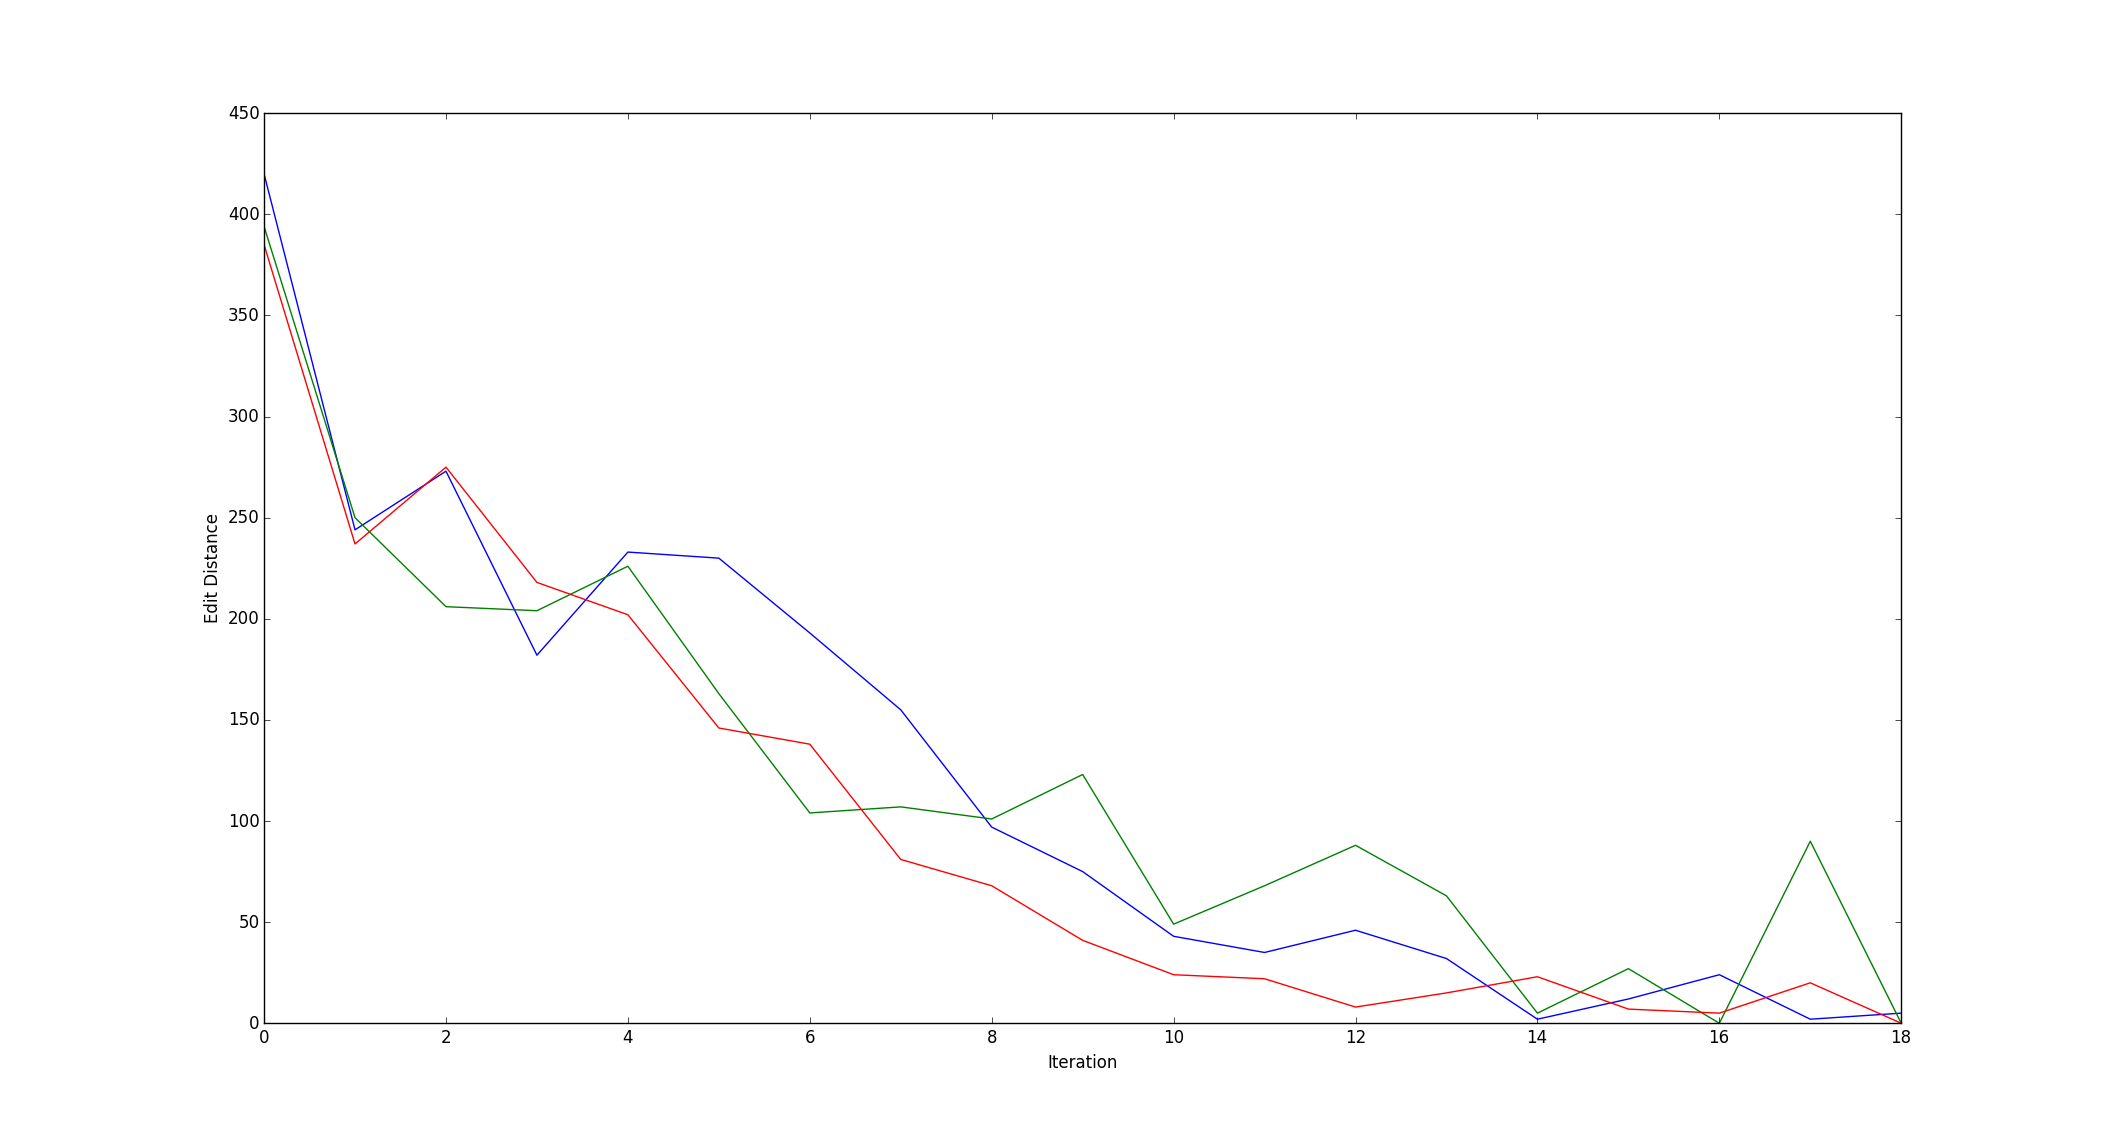
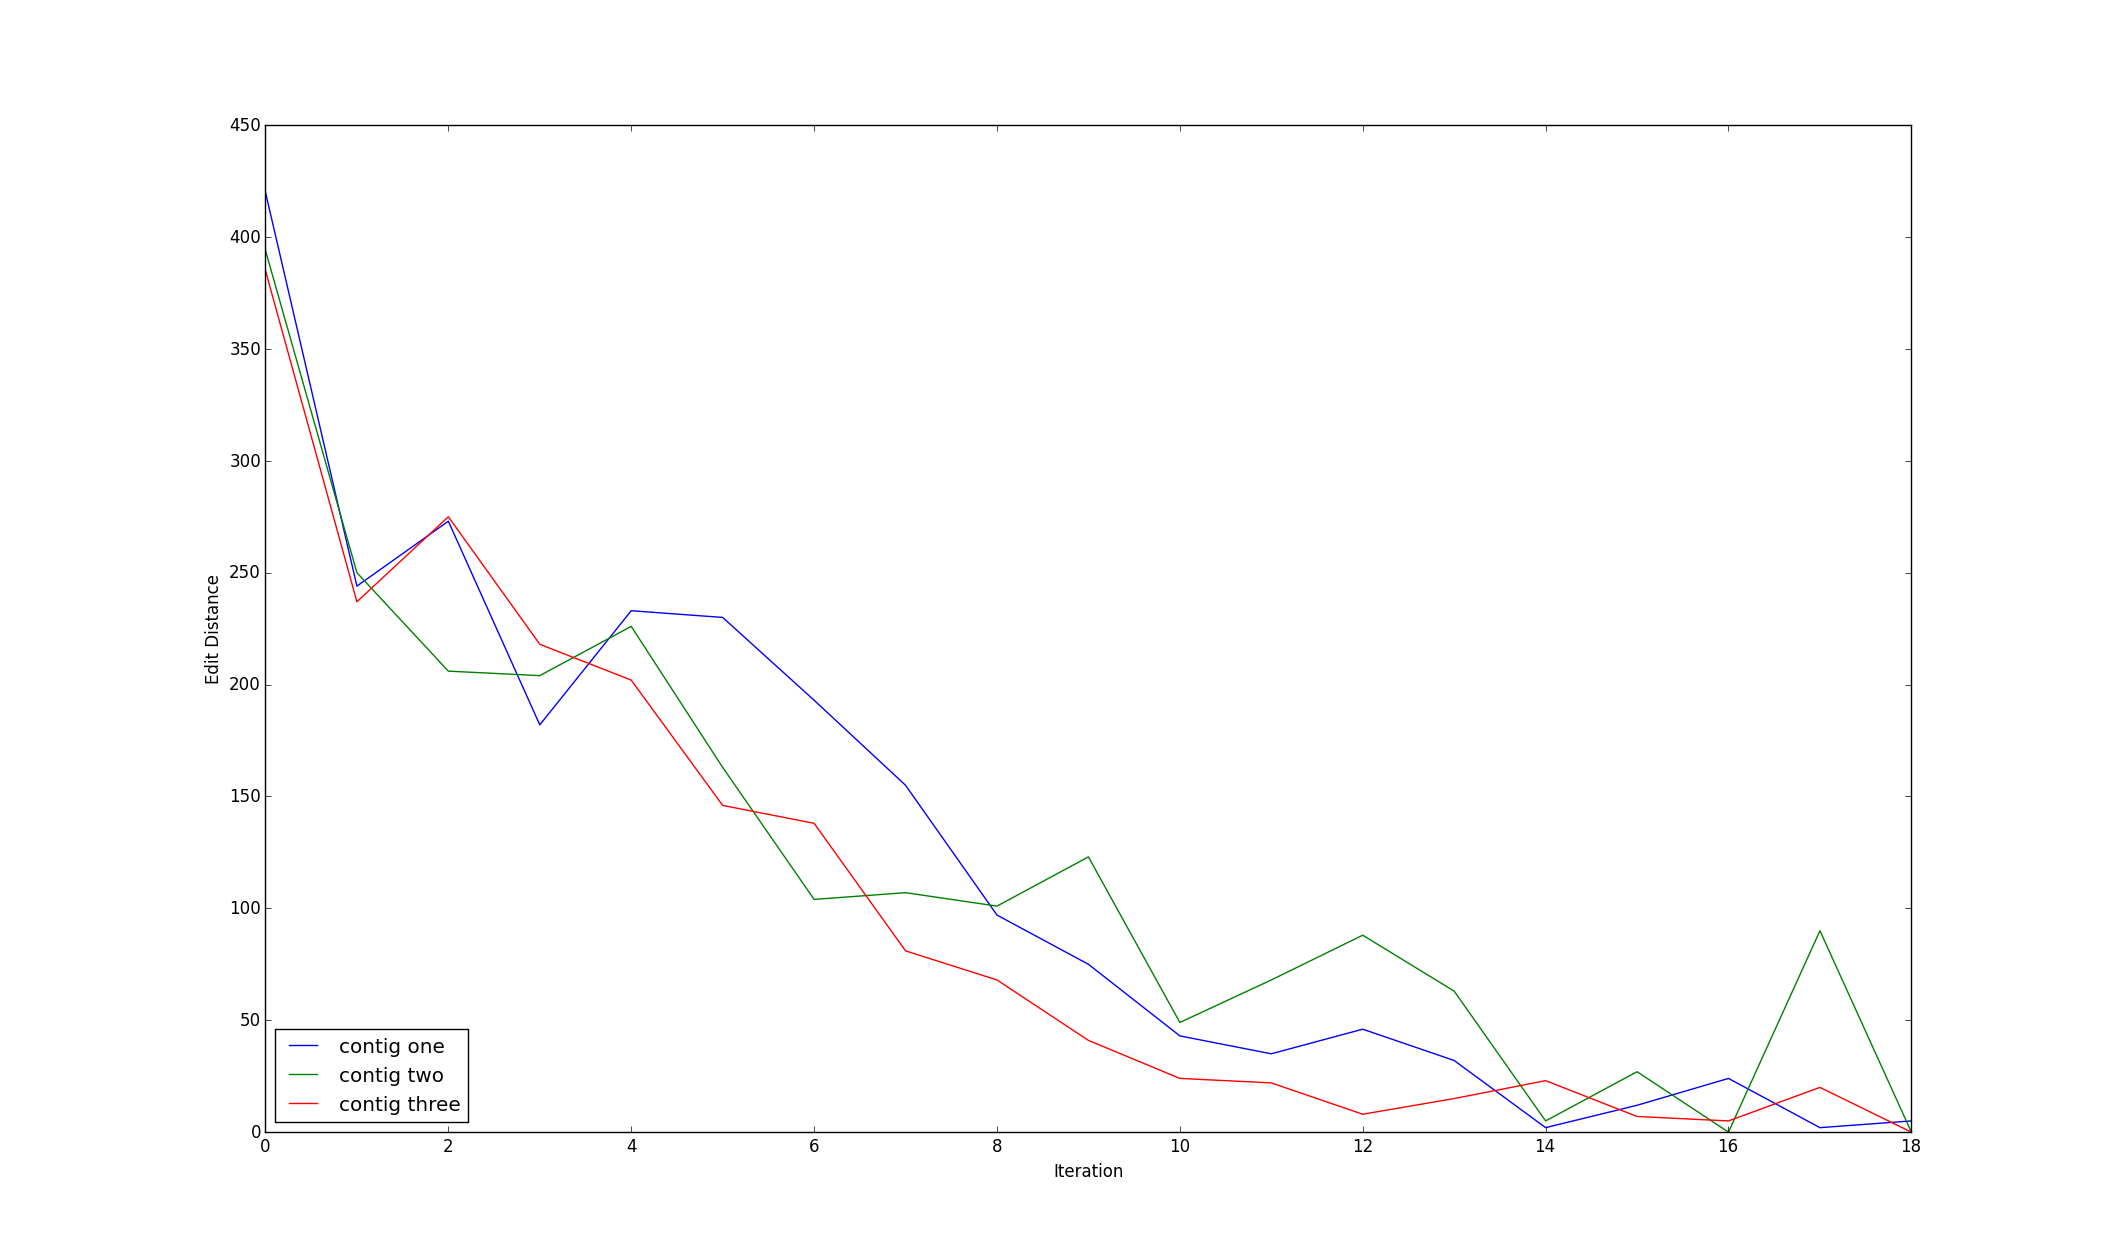
new figures and scripts for those figures.

diff --git a/PROGRAMS/Quality_Metrics.py b/PROGRAMS/Quality_Metrics.py
@@ -70,12 +70,69 @@ def _create_change_in_contigs_figure(f):
         w = l.split(' ')
         if len(w) > 0:
             c_1.append(int(w[0])), c_2.append(int(w[1])), c_3.append(int(w[2]))
-fifi            iters.append(i)
+            iters.append(i)
     plt.plot(np.array(iters),np.array(c_1), label ='contig one')
     plt.plot(np.array(iters),np.array(c_2), label ='contig two')
     plt.plot(np.array(iters),np.array(c_3), label ='contig three')
     plt.xlabel('Iteration')
     plt.ylabel('Edit Distance')
+    plt.legend(loc='lower left')
+    plt.show()
+
+
+def create_scatterplot():
+    '''
+        Create a scatterplot of k-mer positions at contig offsets
+    '''
+    f = open('../SRC_OUTPUT/Dan_trial_two/Dan_trial_two_reads_0.txt', 'r') # random data initialized
+    f2 = open('../SRC_OUTPUT/Dan_trial_two/Dan_trial_two_reads_20.txt', 'r') # after 20 iters
+
+    labels_0,labels_20, data_0,data_20 = [],[],[],[]
+    for i,l in enumerate(f):
+        if i == 0: continue
+        w = l.split(' ')
+        if len(w) > 0:
+            label = w[0]+','+w[1].split('-')[0]
+
+            #label = w[0]+','+w[1][:-1]
+            data = []
+            for n in w[2:]: data.append(int(n))
+            labels_0.append(label), data_0.append(data)
+    for i,l in enumerate(f2):
+        if i == 0: continue
+        w = l.split(' ')
+        if len(w) > 0:
+            #label = w[0]+','+w[1][:-1]
+            label = w[0]+','+w[1].split('-')[0]
+
+            data = []
+            if len(w) > 3:
+                for n in w[2:]: data.append(int(n))
+            else:
+                data.append([])
+            labels_20.append(label), data_20.append(data)
+
+
+
+    plt.figure()
+    plt.boxplot(data_0)
+    plt.xlabel('Contig, Offset Bin')
+    plt.ylabel('K-mer Offset')
+    iters = []
+    for i in range(len(data_0)): iters.append(i)
+
+
+    plt.xticks(iters,labels_0, rotation='45')
+
+    plt.show()
+
+
+    plt.figure()
+    plt.boxplot(data_20)
+    plt.xlabel('Contig, Offset Bin')
+    plt.ylabel('K-mer Offset')
+    plt.xticks(iters,labels_20, rotation='45')
+
     plt.show()
 
 
@@ -83,6 +140,7 @@ def _driver():
     #f = open('../SRC_OUTPUT/trial_one/likelihood.txt', 'r')
     #_create_likelihood_figure(_process_likelihood_output_file(f))
     #_percent_change_of_contigs()
-    f = open('../SRC_OUTPUT/trial_three/change_in_contigs_data.txt', 'r')
-    _create_change_in_contigs_figure(f)
+    #f = open('../figures/change_in_contigs_data.txt', 'r')
+    #_create_change_in_contigs_figure(f)
+    create_scatterplot()
 _driver()
